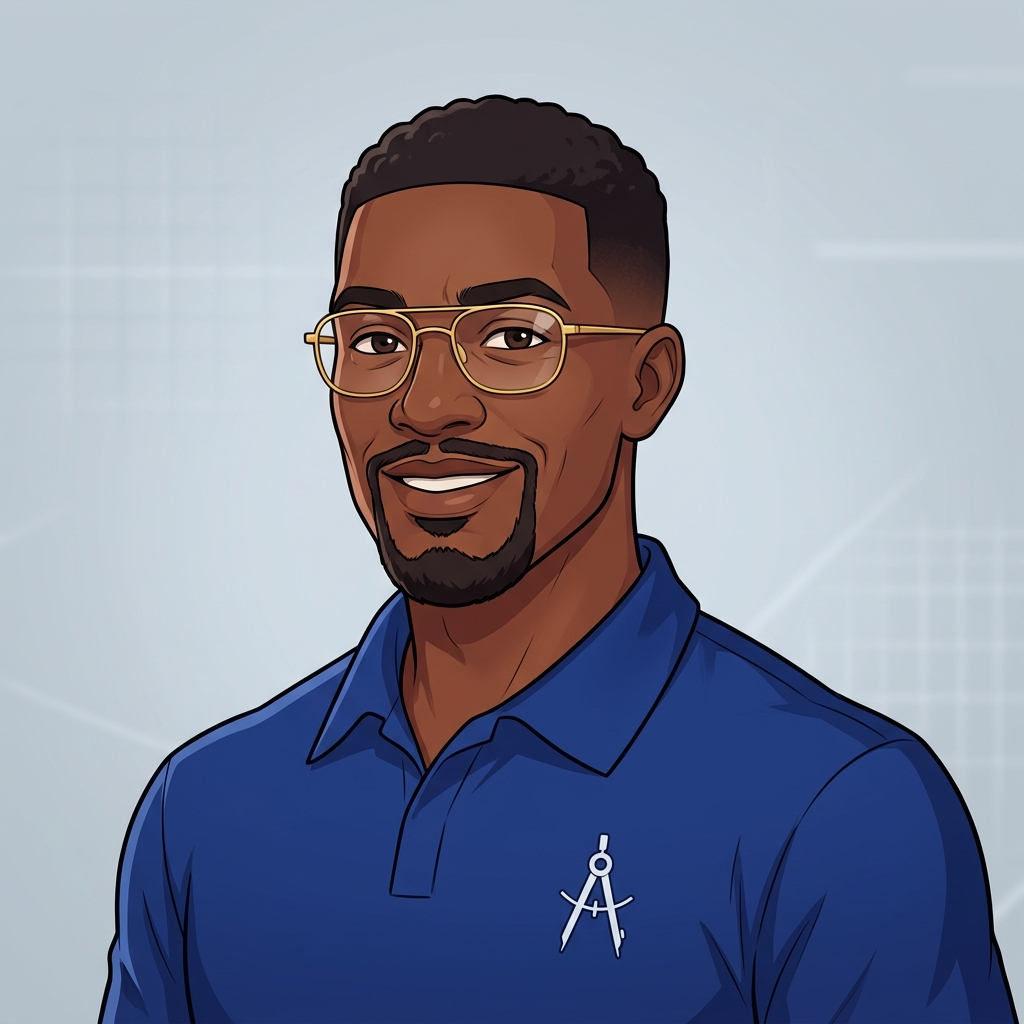
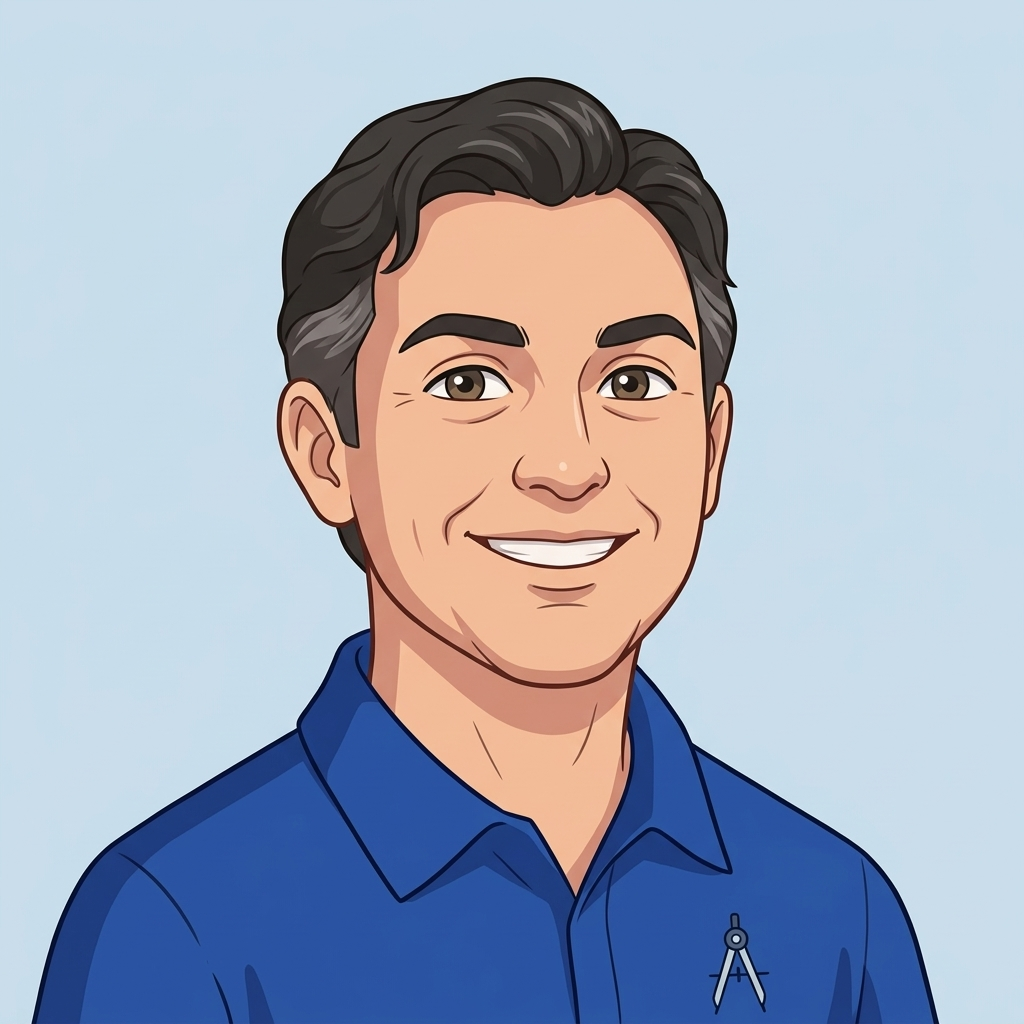
feat: replace Coach Taylor with Coach John portrait and character card

diff --git a/README.md b/README.md
@@ -28,7 +28,7 @@ Players act as treasurer and advisor for an afterschool math club, navigating fi
 - Complete modular Godot UI node hierarchy with rounded modern cards, high contrast typography, and responsive layouts:
   - **Main Game Coordinator** ([`scenes/main.tscn`](res://scenes/main.tscn) & [`game_controller.gd`](res://scripts/ui/game_controller.gd)): Coordinates state transitions, keyboard shortcuts (`1`, `2`, `3`, `Space`, `Enter`), and modal management.
   - **HUD Dashboard** ([`scenes/ui/hud.tscn`](res://scenes/ui/hud.tscn)): Live budget counter, week indicator, dynamic burn-rate allowance, and 3 color-thresholded stakeholder morale progress bars with smooth animated tweens.
-  - **Stage View** ([`scenes/ui/stage_view.tscn`](res://scenes/ui/stage_view.tscn)): Classroom chalkboard environment with reactive character cards (Jordan the student rep, Coach Taylor, and Booster Parent Mrs. Chen) with speaking highlights and emotional mood states (Thrilled, Satisfied, Stressed, Crisis).
+  - **Stage View** ([`scenes/ui/stage_view.tscn`](res://scenes/ui/stage_view.tscn)): Classroom chalkboard environment with reactive character cards (Jordan the student rep, Coach John, and Booster Parent Mrs. Chen) with speaking highlights and emotional mood states (Thrilled, Satisfied, Stressed, Crisis).
   - **Scenario Panel** ([`scenes/ui/scenario_panel.tscn`](res://scenes/ui/scenario_panel.tscn)): Narrative description cards and 3 styled action buttons displaying cost, revenue, morale tags, and math badges.
   - **Modals:**
     - [`MathModal`](res://scenes/ui/modals/math_modal.tscn): Interactive multiple-choice challenge modal with instant feedback.
@@ -42,7 +42,7 @@ Players act as treasurer and advisor for an afterschool math club, navigating fi
 ### Phase 3: Modern Art & Audio Assets ✅
 - **High-Resolution Character Portraits (`assets/images/characters/`):**
   - **Jordan (Student Rep):** Illustrated portrait bust with red pi baseball cap, curls, and yellow math club hoodie.
-  - **Coach Taylor (Head Coach):** Illustrated portrait bust with gold glasses, neat fade, and royal blue polo.
+  - **Coach John (Head Coach):** Illustrated portrait bust with dark wavy hair, warm smile, and royal blue coaching polo with math compass emblem.
   - **Mrs. Chen (Booster Parent):** Illustrated portrait bust with sleek bob, purple cardigan, and warm coffee mug.
 - **Classroom Environment Background (`assets/images/backgrounds/`):**
   - Warm sunlit classroom interior with chalk formulas, math diagrams, and banners.
